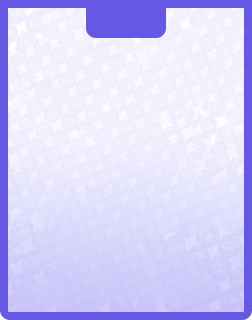
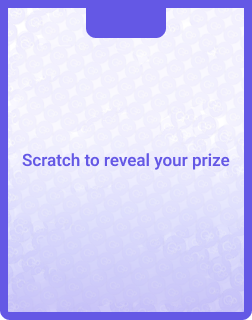
change popup

Changed region(s): [[0.4167, 0.4688, 0.9167, 0.5312], [0.0833, 0.4688, 0.3889, 0.5312]]

diff --git a/coin-parliament/src/Components/Profile/Minting.tsx b/coin-parliament/src/Components/Profile/Minting.tsx
@@ -140,9 +140,10 @@ const Minting = ({
   const handleCmpPopupClose = () => setCmpPopupShow(false);
   const handleCmpPopupShow = () => {
     setCmpPopupShow(true)
+    
     const Animation = lottie.loadAnimation({
-      // @ts-ignore
-      container: document.querySelector("#Cmp-animation"),
+      // @ts-ignor
+      container: document.querySelector(".Cmp-animation"),
       animationData: Confetti,
       renderer: "html", // "canvas", "html"
       loop: true, // boolean
@@ -157,7 +158,7 @@ const Minting = ({
 
   console.log(showBack, "showBackshow")
 
-
+console.log(document.querySelector(".Cmp-animation"),"Cmp-animation")
   useEffect(() => {
     if (score == 100) {
       handleCmpPopupShow()
@@ -262,7 +263,7 @@ const Minting = ({
           } onHide={handleClose}
           // size="sm"
           backdrop="static"
-          contentClassName={window.screen.width > 767 ? "card-content" : "card-contentMob"}
+          // contentClassName={window.screen.width > 767 ? "card-content" : "card-contentMob"}
           aria-labelledby="contained-modal-title-vcenter"
           centered
 
@@ -275,8 +276,7 @@ const Minting = ({
           <Modal.Body className="d-flex  justify-content-center align-items-center">
             {/* continue voting */}
             {/* @ts-ignore */}
-            <div className='py-2 '><p style={{ fontSize: "30px" }}>You win {resultData?.data?.thirdRewardDiamonds} Coin </p></div>
-
+            <div className='py-2 '><p style={{ fontSize: "20px" }}>Congrats! You've won {resultData?.data?.thirdRewardDiamonds} coins </p></div>
           </Modal.Body>
           {/* <Modal.Footer> */}
           <div className="d-flex justify-content-center ">
@@ -290,7 +290,7 @@ const Minting = ({
               }, 1000);
 
               handleClose()
-            }}>Collect your coin</Buttons.Primary>
+            }}>COLLECT NOW</Buttons.Primary>
             {/* <Buttons.Default className="mx-2" onClick={handleClose}>No</Buttons.Default> */}
           </div>
           {/* </Modal.Footer>       */}
@@ -308,9 +308,10 @@ const Minting = ({
           // size="sm"
           backdrop="static"
           // contentClassName={window.screen.width >767? "card-content" :"card-contentMob"}
+          contentClassName="Cmp-animation"
           aria-labelledby="contained-modal-title-vcenter"
           centered
-          id="Cmp-animation"
+          // id="Cmp-animation"
         >
 
           <div className="d-flex justify-content-end"
@@ -325,7 +326,11 @@ const Minting = ({
           >
             {/* continue voting */}
             {/* @ts-ignore */}
-            <div className='py-2'><p style={{ fontSize: "20px" }}>You Get One Claim Reward</p></div>
+            <div className='py-2 d-flex flex-column  justify-content-center align-items-center'>
+              <strong className="py-2" style={{ fontSize: "20px" }}>Well done, Champ!</strong>
+              <p className="py-2" style={{ fontSize: "20px" }}>You've reached your goal.</p>
+              <p className="py-2" style={{ fontSize: "14px" }}>Go ahead and claim your reward - you deserve it!</p>
+            </div>
 
           </Modal.Body>
           {/* <Modal.Footer> */}
@@ -344,10 +349,10 @@ const Minting = ({
                   console.log("rewardresult", result);
                 }
               }}
-            >Claim Reward</Buttons.Primary>
+            >CLAIM YOUR REWARDS</Buttons.Primary>
             <Buttons.Primary className="mx-2" onClick={() => {
               handleCmpPopupClose()
-            }}>Claim Reward Later</Buttons.Primary>
+            }}>Claim letter</Buttons.Primary>
             {/* <Buttons.Default className="mx-2" onClick={handleClose}>No</Buttons.Default> */}
           </div>
           {/* </Modal.Footer>       */}

diff --git a/coin-parliament/src/Components/Profile/Mine.tsx b/coin-parliament/src/Components/Profile/Mine.tsx
@@ -44,9 +44,7 @@ const RewardList = styled.p`
   cursor: pointer;
 `;
 const CardDiv = styled.div`
-.card-content{
-  border:1px solid red;
-}
+
 `;
 type ZoomProps = {
   inOutReward?: number
@@ -68,6 +66,7 @@ const Mine = () => {
   const [data, setData] = useState([]);
   const [modalShow, setModalShow] = React.useState(false);
   const [cardModalShow, setCardModalShow] = React.useState(false);
+  const [modelText, setModelText] = React.useState(0);
   let navigate = useNavigate();
   const rewardList = async () => {
     // console.log("user Id called");
@@ -99,7 +98,8 @@ const Mine = () => {
   useEffect(() => {
 
     if (showBack && ClaimNumber < 1) {
-           setTimeout(() => {
+      setTimeout(() => {
+             setModelText(1)
              console.log(showBack, "viewshow")
              handleShow()
              setShowBack(false)            
@@ -110,7 +110,8 @@ const Mine = () => {
 
   const openpopup = () => {
     if (showBack) {
-           setTimeout(() => {
+      setTimeout(() => {
+             setModelText(2)
              console.log(showBack, "viewshow")
              handleShow()
              setShowBack(false)
@@ -364,7 +365,16 @@ const Mine = () => {
         </div>
       <Modal.Body>
             {/* continue voting */}          
-      <div className='py-2  d-flex  justify-content-center'><p style={{fontSize:"20px"}}>You need {100 - RemeingCmp} cmp number to achieve the goal!</p></div>
+            {modelText == 1 && <div className='py-2  d-flex flex-column  justify-content-center'>
+              <strong style={{ fontSize: "20px" }}>Stay in the game</strong>
+              <p style={{ fontSize: "20px" }}>Only {100 - RemeingCmp} CMP to reach your goal</p>
+            </div>}
+            {modelText == 2 && <div className='py-2  d-flex  flex-column justify-content-center'>
+              <strong style={{ fontSize: "20px" }}>Great job!!</strong>
+              <p style={{ fontSize: "20px" }}>
+              You're one step closer to claiming your reward!
+              </p>
+            </div>}
 
           </Modal.Body >
           {/* <Modal.Footer> */}

diff --git a/coin-parliament/src/Components/Profile/PAXCard.tsx b/coin-parliament/src/Components/Profile/PAXCard.tsx
@@ -132,7 +132,7 @@ const PAXCard = ({ walletId, PAX, rewardTimer }: PAXCardProps) => {
           } onHide={handleClose}
       // size="sm"
       backdrop="static"          
-      contentClassName={window.screen.width >767? "card-content" :"card-contentMob"}
+      // contentClassName={window.screen.width >767? "card-content" :"card-contentMob"}
       aria-labelledby="contained-modal-title-vcenter"
       centered
     >
@@ -145,8 +145,9 @@ const PAXCard = ({ walletId, PAX, rewardTimer }: PAXCardProps) => {
             {/* continue voting */}          
             {/* @ts-ignore */}
             <div className=''>
-              <p style={{ fontSize: "30px" }}>You win {rewardExtraVote} Vote </p>
+              <p style={{ fontSize: "20px" }}>Congrats! You've won {rewardExtraVote} votes</p>
             </div>
+             
 
           </Modal.Body>
           {/* <Modal.Footer> */}

diff --git a/coin-parliament/src/common/NFTCard/NFTCard.tsx b/coin-parliament/src/common/NFTCard/NFTCard.tsx
@@ -324,7 +324,7 @@ const navigate = useNavigate();
         onClick={() => {
           setRewardTimer(null);
           setShowReward(0);
-        }}
+        }}    
       >
           <span>
             X
